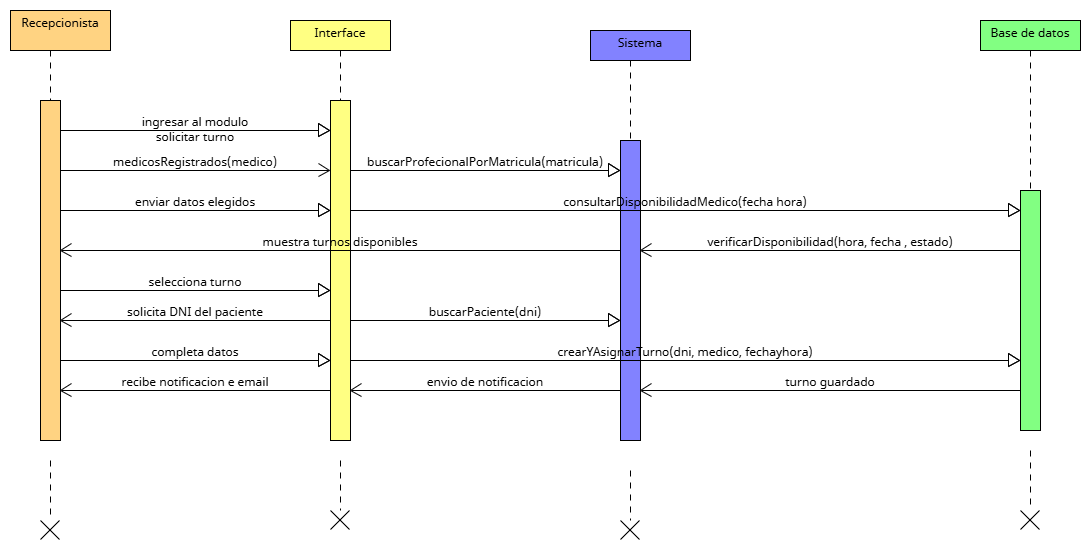
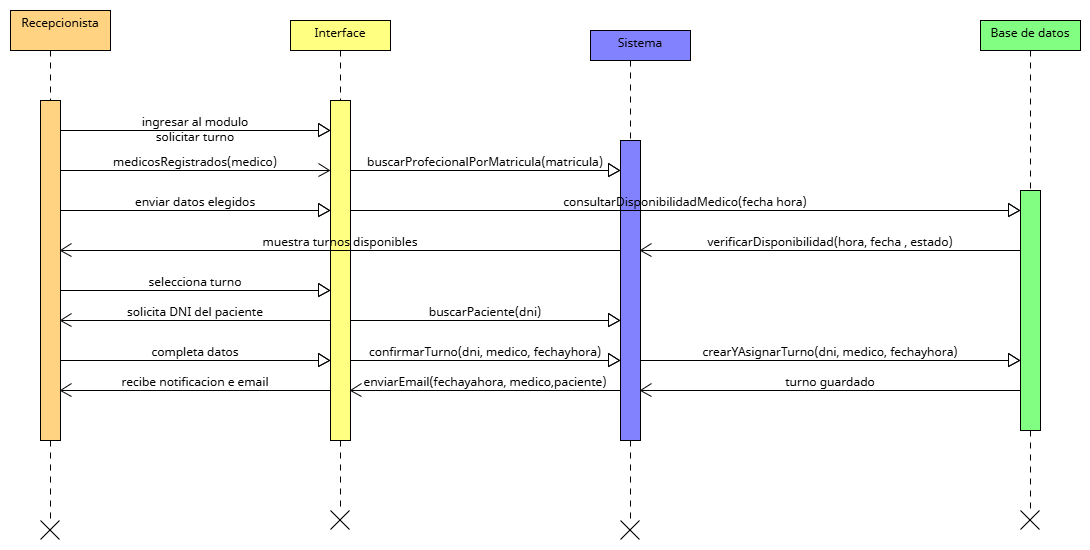
se corrige diagrama de secuencias y escenarios de Casos de Uso

Changed region(s): [[0.3431, 0.6182, 0.8734, 0.6491], [0.3431, 0.68, 0.5615, 0.7109]]

diff --git a/diagramas_de_secuencias.md b/diagramas_de_secuencias.md
@@ -2,6 +2,6 @@
 
 - [Diagrama de Secuencia - Registrar un médico - Registro de un médico exitoso](https://drive.google.com/file/d/1X8jD4jbHBgnVA7dIbLSKFXdZzrHgGjrM/view?usp=drive_link)
 - [Diagrama de Secuencia - Registrar un paciente - Registro de paciente exitoso](https://drive.google.com/file/d/1I8agBvuXTTTVuXt8MqsGztX9sq-mPjvS/view?usp=drive_link)
-- [Diagrama de Secuencia - Asignar un turno médico - Asignación de un turno exitiso](https://drive.google.com/file/d/1Bwh-K48Belet5oPByhg4Pt75JUetahoB/view?usp=drive_link)
-- [Diagrama de Secuencia - Modificar turno - Modificación de turno exitoso]()
-- [Diagrama de Secuencia - Consultar historial de turnos - Consulta de turnos exitosa]()
+- [Diagrama de Secuencia - Asignar un turno médico - Asignación de un turno exitiso](https://drive.google.com/file/d/12Yv_EUaEqKnd9PRBH37Sb55bSZ3K1t1i/view?usp=drive_link)
+- [Diagrama de Secuencia - Modificar turno - Modificación de turno exitoso](https://drive.google.com/file/d/1omDuDAxpMLdvcDKPsLPkOxArCIrvPcTb/view?usp=drive_link)
+- [Diagrama de Secuencia - Consultar historial de turnos - Consulta de turnos exitosa](https://drive.google.com/file/d/1X8T1AZgrPv1Fw8Oucn6GBy29hFvc1YEX/view?usp=drive_link)
